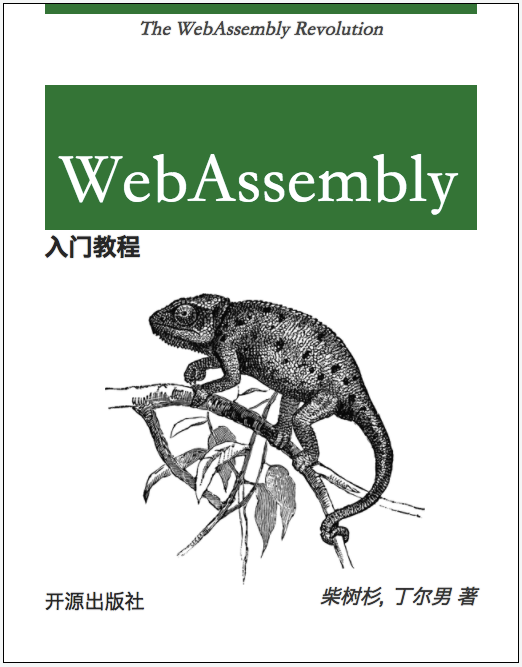
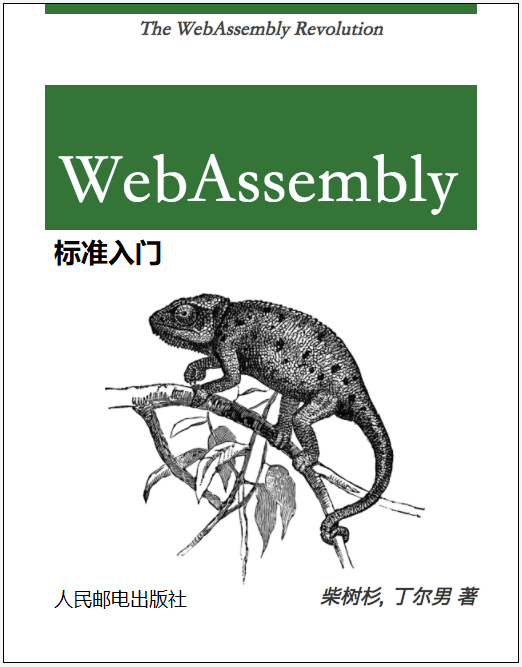
更新图书信息

Changed region(s): [[0.092, 0.3298, 0.3065, 0.4198], [0.092, 0.8696, 0.3678, 0.9295]]

diff --git a/webassembly-primer.md b/webassembly-primer.md
@@ -1,4 +1,4 @@
-# WebAssembly入门教程
+# WebAssembly标准入门
 
 本书讲解了WebAssembly的基础知识，其内容涵盖了WASM的历史背景、WASM中汇编语言和虚拟机指令、浏览器对WASM的支持、其它高级语言对WASM的支持等。本书适合想要掌握WebAssembly技术的用户学习。
 

diff --git a/README.md b/README.md
@@ -42,7 +42,7 @@ WASM Hackers 技术周报:
 
 ## WebAssembly图书
 
-- [WebAssembly入门教程](webassembly-primer.md) - 即将完稿, 待出版
+- [WebAssembly标准入门](webassembly-primer.md) - 初步完稿, 待出版
 
 ----
 
